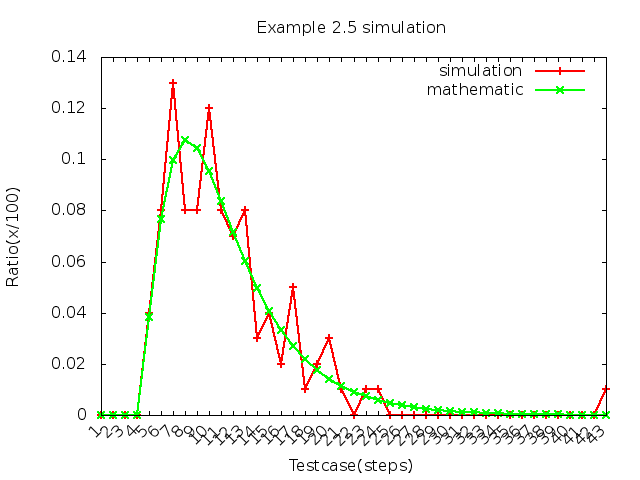
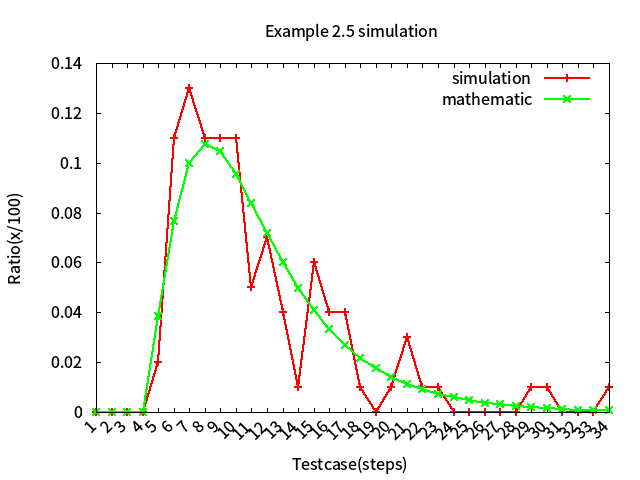
Add comparison with changing testcase.
* Add testcase=10^6, the result is more fit with the mathematic model.

diff --git a/example2.5/README.md b/example2.5/README.md
@@ -3,8 +3,8 @@
 ## How to use?
 
 * Compile and run the default testcase: 
-    * range: 1~5
-    * testcase: 100
+    * range: `1~5`
+    * testcase: **`100`**
 ```bash
 make
 ```
@@ -12,5 +12,8 @@ make
 ## Result 
 
 * As you can see the figure down below, the `simulation(red line)` and the `mathematic(green line)` have the similar curve.
+    ![](simulation.png)
 
-![](simulation.png)
+* And then we increase the testcase to **`10^6`**:
+    ![](simulation_large.png)
+    * You can see it's more fit with the curve from mathematic model!
